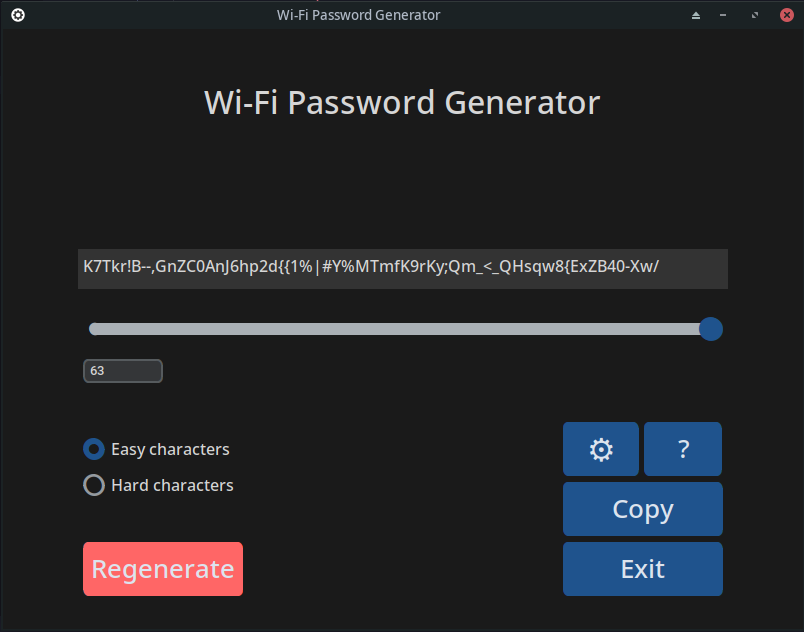
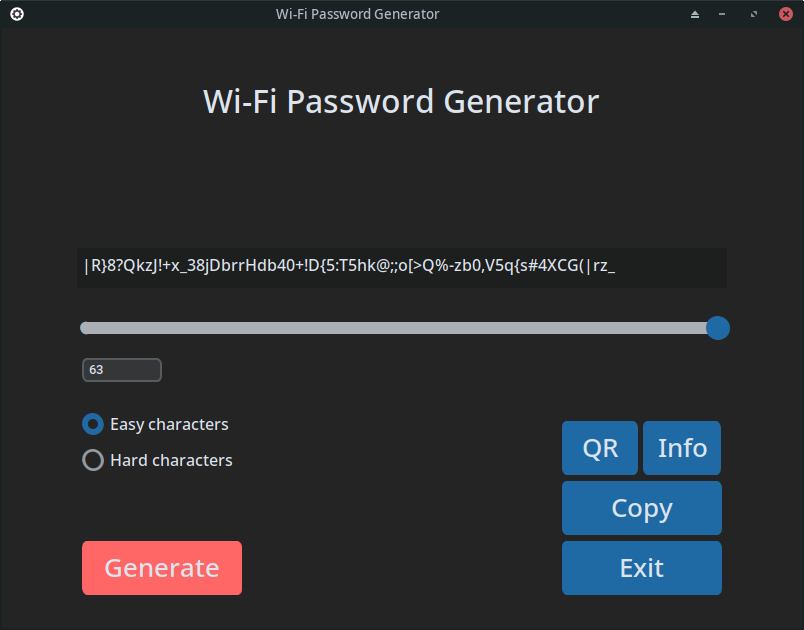
- QR Code implementation
- QR Window display the actual qr code.
- correction of the position of lines in text boxes
- make sure dark theme and blue color theme wll be used

diff --git a/app/wpg.py b/app/wpg.py
@@ -5,11 +5,10 @@ from tkinter import PhotoImage
 import core
 import customtkinter
 import qrcode
-from PIL import Image
 
-customtkinter.set_appearance_mode("system")  # Modes: system (default), light, dark
+customtkinter.set_appearance_mode("dark")  # Modes: system (default), light, dark
 customtkinter.set_default_color_theme(
-    "dark-blue"
+    "blue"
 )  # Themes: blue (default), dark-blue, green
 
 #
@@ -65,7 +64,7 @@ class InfoWindow(customtkinter.CTkToplevel):
 class QRCodeWindow(customtkinter.CTkToplevel):
     """Window to display the generated QRCode."""
 
-    def __init__(self):
+    def __init__(self, password):
         super().__init__()
         self.geometry("400x500")
         self.title("Generated QRCode")
@@ -75,9 +74,14 @@ class QRCodeWindow(customtkinter.CTkToplevel):
         self.iconphoto(False, info_image)
 
         # Image
+        # self.password = password
+        # print(password)
+        code = qrcode.make(password)  # From https://pypi.org/project/qrcode/
+        qrcode_image = code.get_image()  # <- Convert code into image.
+
         my_image = customtkinter.CTkImage(
-            light_image=Image.open("../assets/png.png"),
-            dark_image=Image.open("../assets/png.png"),
+            light_image=qrcode_image,
+            dark_image=qrcode_image,
             size=(300, 300),
         )
 
@@ -164,7 +168,7 @@ class App(customtkinter.CTk):
         self.textbox_generate.place(relx=0.5, rely=0.4, anchor=customtkinter.CENTER)
         self.textbox_generate.configure(state="normal")
         self.textbox_generate.insert(
-            "0.0", f"{core.generate_password(self.pw_size, 0)}\n"
+            "1.0", f"{core.generate_password(self.pw_size, 0)}\n"
         )  # 0 for Easy characters by default.
         self.textbox_generate.configure(state="disabled")
 
@@ -326,7 +330,7 @@ class App(customtkinter.CTk):
             relwidth=0.095,
             relheight=0.09,
         )
-        self.button_qrcode.bind("<ButtonRelease-1>", self.qrcode)
+        self.button_qrcode.bind("<ButtonRelease-1>", self.open_qrcode_window)
 
         self.button_info = customtkinter.CTkButton(
             self, text="Info", font=self.button_font
@@ -338,7 +342,7 @@ class App(customtkinter.CTk):
             relwidth=0.099,
             relheight=0.09,
         )
-        self.button_info.bind("<ButtonRelease-1>", self.info)
+        self.button_info.bind("<ButtonRelease-1>", self.open_info_window)
 
         # Toplevel Windows
 
@@ -359,7 +363,8 @@ class App(customtkinter.CTk):
     # Slider
 
     def slider_event(self, slider_value):
-        self.warning_label.configure(text="")
+        self.warning_label.configure(text="")  # clear warning_label
+        self.button_copy.configure(text="Copy")  # Copied turns back to Copy
         self.pw_size = max(8, min(round(slider_value), 63))  # Input size handling
         self.entry.delete(0, 2)
         self.entry.insert(0, self.pw_size)
@@ -405,7 +410,7 @@ class App(customtkinter.CTk):
         self.textbox_generate.place(relx=0.5, rely=0.4, anchor=customtkinter.CENTER)
         self.textbox_generate.configure(state="normal")
         self.textbox_generate.insert(
-            "0.0", f"{core.generate_password(self.pw_size, self.radio_var.get())}\n"
+            "1.0", f"{core.generate_password(self.pw_size, self.radio_var.get())}\n"
         )
         self.textbox_generate.configure(state="disabled")
         self.button_copy.configure(text="Copy")  # Copied returns to Copy
@@ -417,7 +422,7 @@ class App(customtkinter.CTk):
         print("Copy button clicked")
         self.clipboard_clear()
         self.textbox_generate.configure(state="normal")
-        password = self.textbox_generate.get("0.0", "end").strip()
+        password = self.textbox_generate.get("1.0", "end").strip()
         self.textbox_generate.configure(state="disabled")
         self.clipboard_append(password)
         self.update()
@@ -432,16 +437,23 @@ class App(customtkinter.CTk):
 
     # QRCode
 
-    def qrcode(self, event):
+    def open_qrcode_window(self, event):
+
+        self.textbox_generate.configure(state="normal")
+        password = self.textbox_generate.get("1.0", "end").strip()
+        self.textbox_generate.configure(state="disabled")
+
         if self.qrcode_window is None or not self.qrcode_window.winfo_exists():
-            self.qrcode_window = QRCodeWindow()  # create win if its None or destroyed
+            self.qrcode_window = QRCodeWindow(
+                password
+            )  # create win if its None or destroyed
         else:
             self.qrcode_window.focus()  # if window exists focus it
         print("QRCode")
 
     # Info
 
-    def info(self, event):
+    def open_info_window(self, event):
         if self.info_window is None or not self.info_window.winfo_exists():
             self.info_window = InfoWindow()  # create window if its None or destroyed
         else:

diff --git a/README.md b/README.md
@@ -12,7 +12,7 @@
 
 - Generate strong random passwords (up to 63 characters)
 - Customize password length and character set
-- Cross-platform GUI (Windows, Linux, macOS)
+- Cross-platform
 - Dark mode and modern UI with CustomTkinter
 - Runs locally and offline
 
@@ -102,7 +102,7 @@ UI powered by [CustomTkinter](https://github.com/TomSchimansky/CustomTkinter)
 
 ## Contributing
 
-Pull requests, suggestions, and forks are welcome! If you improve the project or add features, feel free to share.
+Pull requests, suggestions, and forks are welcome. If you improve the project or add features, feel free to share.
 
 ---
 
